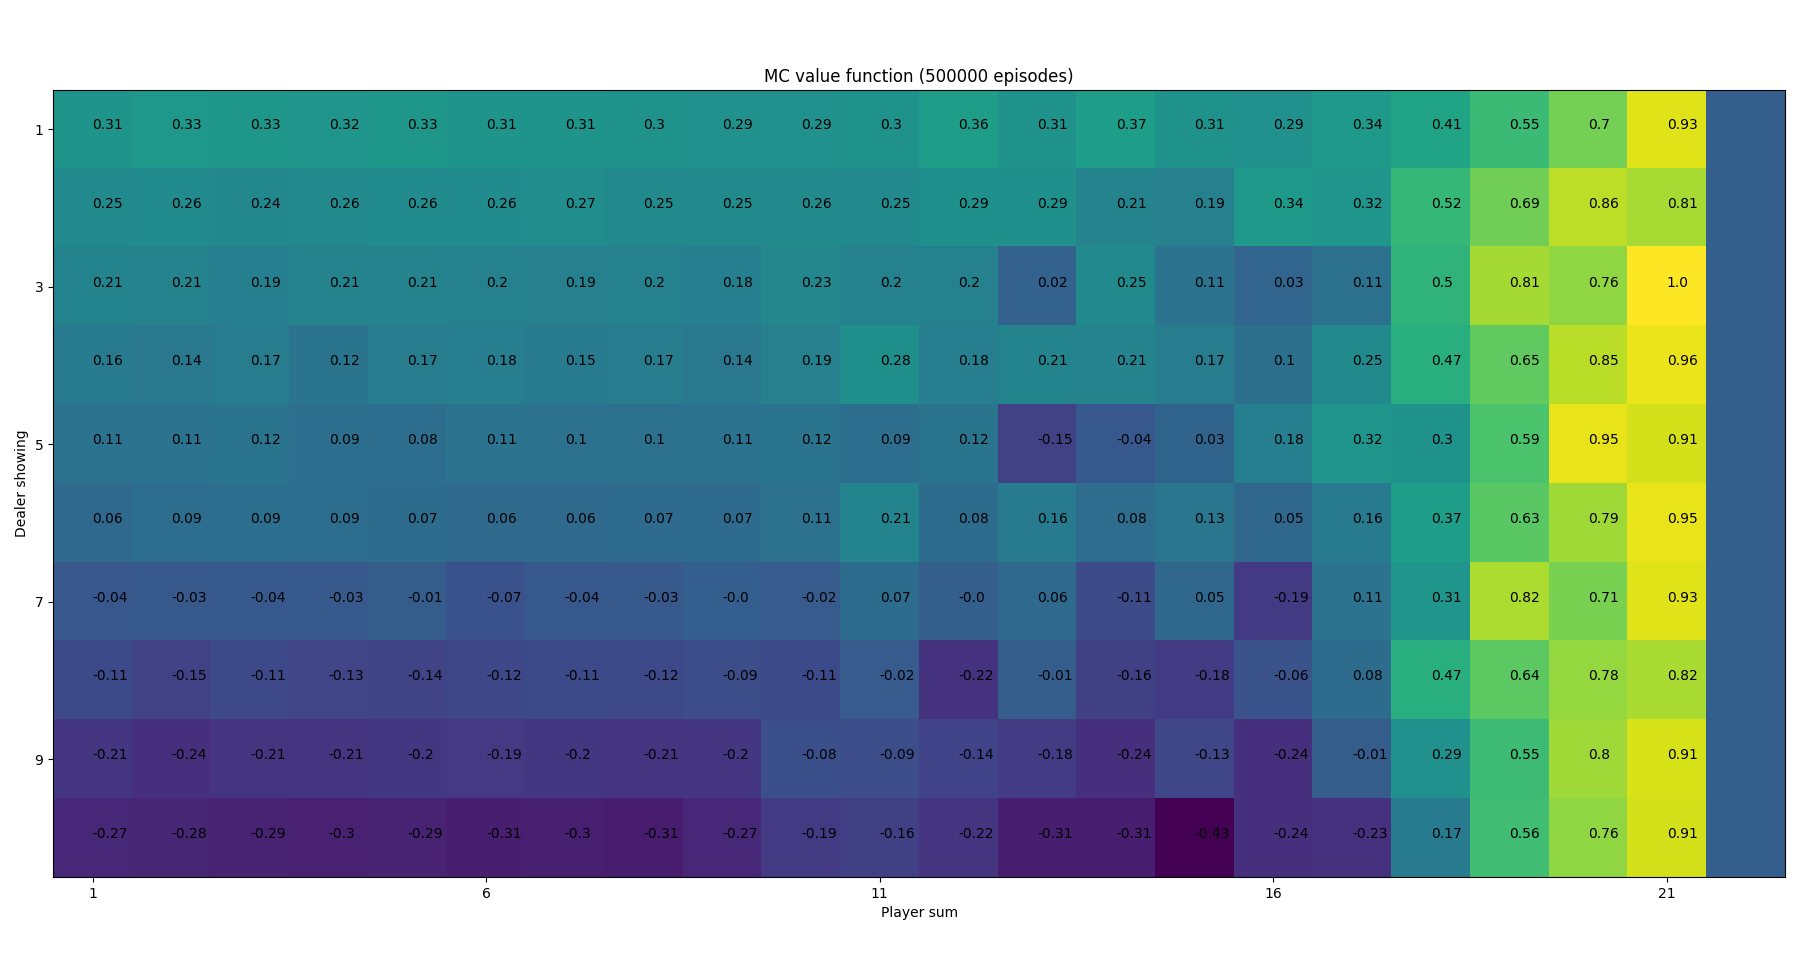
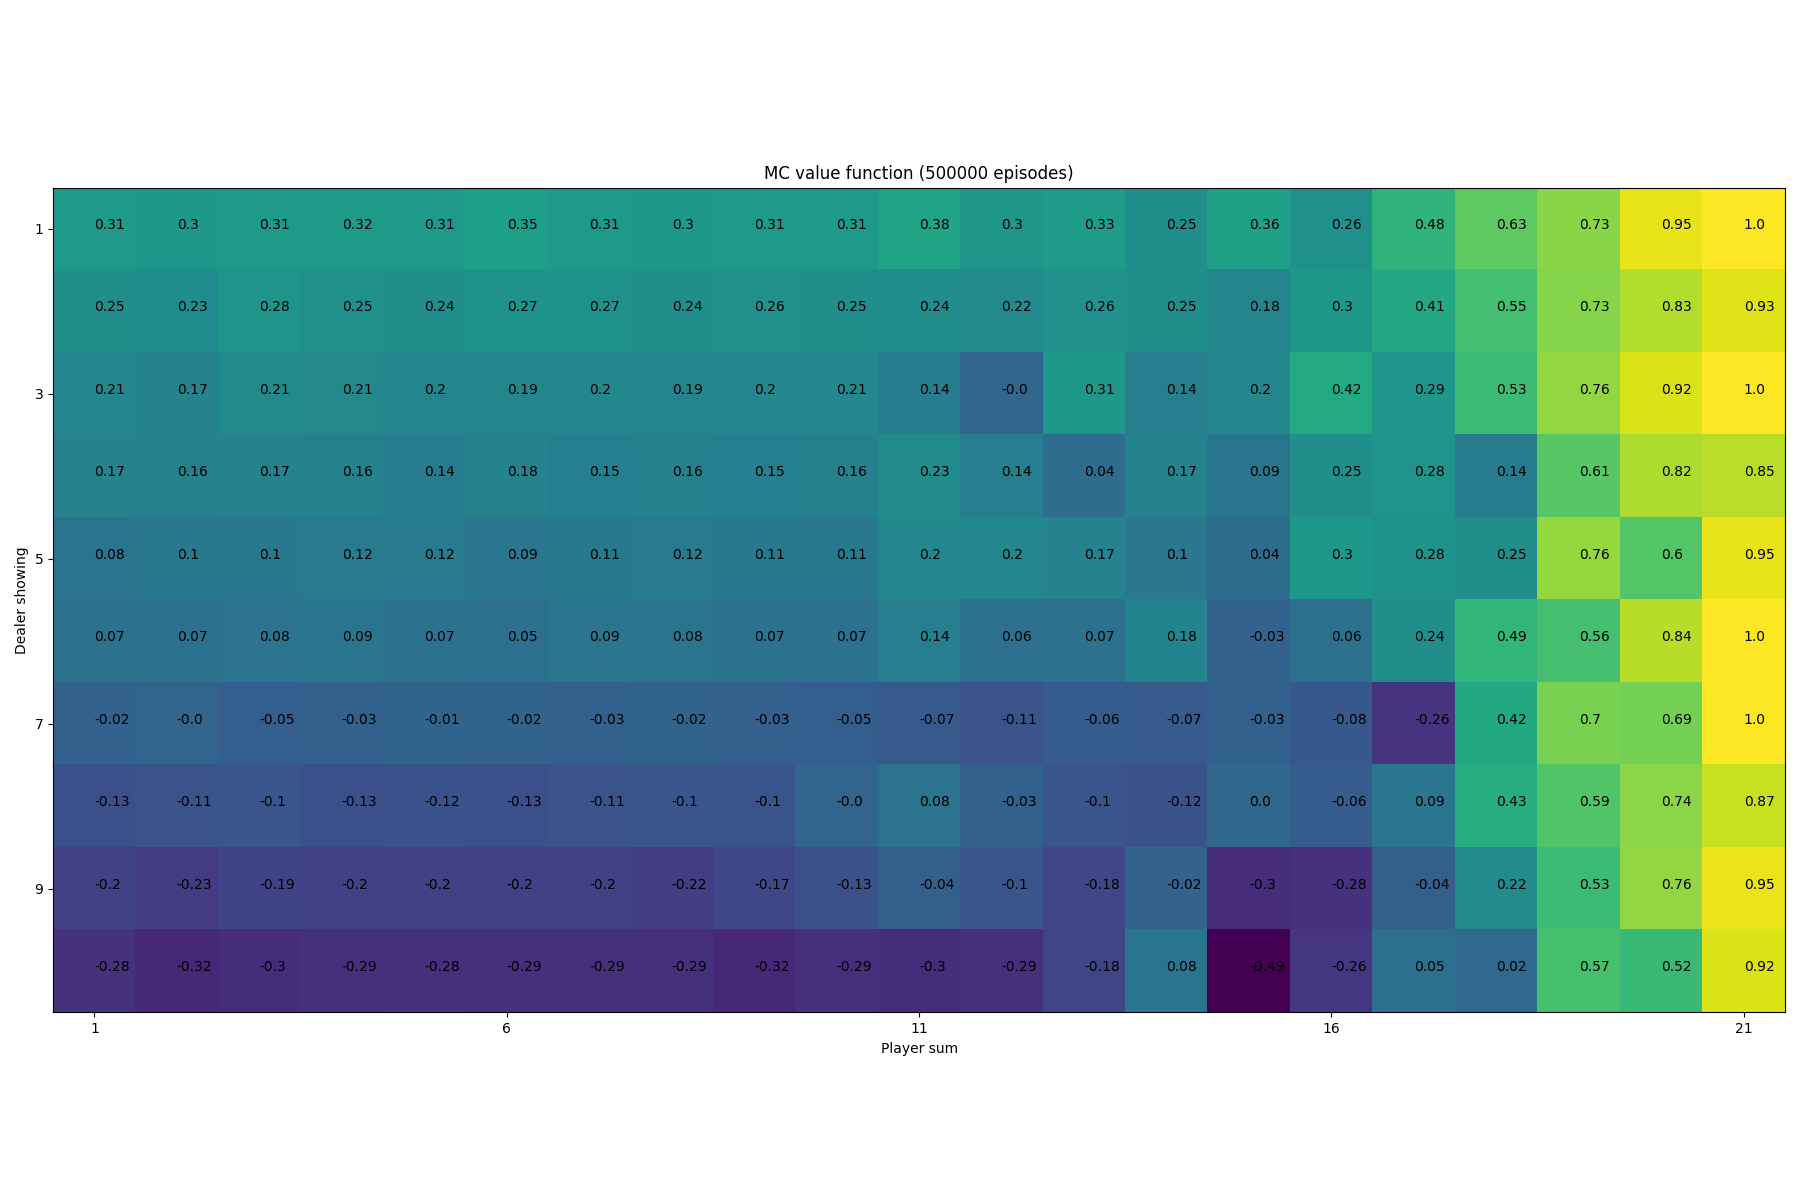
Update plot

diff --git a/main.py b/main.py
@@ -16,7 +16,7 @@ state_action_values = mc_control(n_episodes)
 # for s, av in state_action_values.items():
 #     print(f"dealer card: {s.dealer_first_card.value()}, player sum: {s.player_sum}: {av}")
 
-max_action_val = np.zeros((len(CARD_VALS), 22))
+max_action_val = np.zeros((len(CARD_VALS), 21))
 for s, av in state_action_values.items():
     dealer_first_card = s.dealer_first_card.value()
     player_sum = s.player_sum
